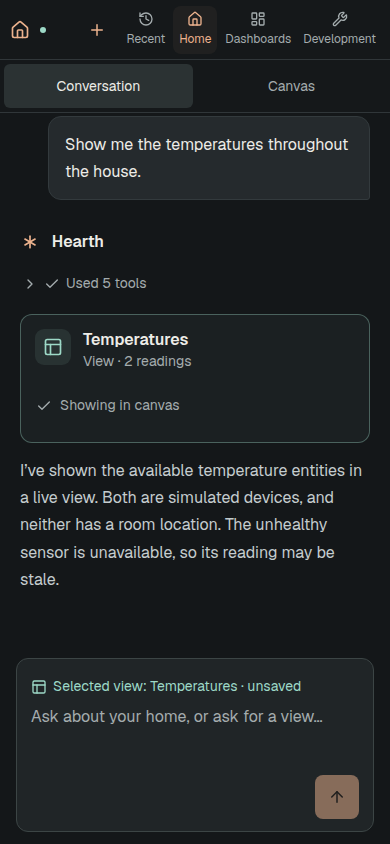
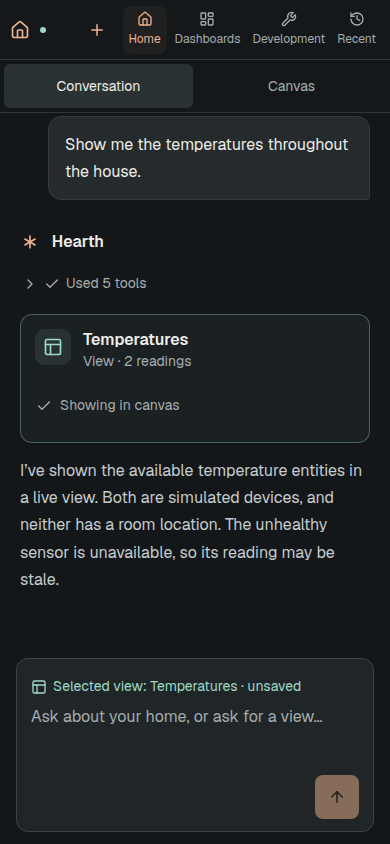
fix(web): keep Recent after main navigation at every width

Changed region(s): [[0.4615, 0.0, 0.9231, 0.0616], [0.3077, 0.0, 0.4308, 0.0616]]

diff --git a/web/src/App.tsx b/web/src/App.tsx
@@ -162,12 +162,12 @@ function HouseholdShell() {
     <aside className="hearth-sidebar" aria-label="Hearth navigation">
       <div className="hearth-brand"><span><HouseIcon aria-hidden="true" /></span> hearth<small>A little closer to home.</small></div>
       <button className="sidebar-new" aria-label="New conversation" disabled={turnActive} onClick={() => workspace.startFresh(() => { startNew(); workspace.navigateRetainingDraft("/"); })}><PlusIcon aria-hidden="true" /><span>New conversation</span></button>
-      <button ref={historyButton} className="history-toggle" aria-label="Conversation history" aria-expanded={historyOpen} aria-controls="conversation-history" onClick={() => setHistoryOpen(open => !open)}><HistoryIcon aria-hidden="true" /><span>Recent</span></button>
       <nav className="hearth-main-nav" aria-label="Main navigation">
         <Link to="/" aria-label="Home" className={home ? "active" : undefined} aria-current={home ? "page" : undefined}><HouseIcon aria-hidden="true" /><span>Home</span></Link>
         <NavLink to="/dashboards" aria-label="Dashboards"><LayoutDashboardIcon aria-hidden="true" /><span>Dashboards</span></NavLink>
         <NavLink to="/devices" aria-label="Development"><WrenchIcon aria-hidden="true" /><span>Development</span></NavLink>
       </nav>
+      <button ref={historyButton} className="history-toggle" aria-label="Conversation history" aria-expanded={historyOpen} aria-controls="conversation-history" onClick={() => setHistoryOpen(open => !open)}><HistoryIcon aria-hidden="true" /><span>Recent</span></button>
       <ConversationHistory id="conversation-history" open={historyOpen} onNavigate={() => setHistoryOpen(false)} />
       <ServerStatus />
     </aside>

diff --git a/web/src/index.css b/web/src/index.css
@@ -170,7 +170,7 @@
 .view-metric-value { letter-spacing:-.03em; font-variant-numeric:tabular-nums; }
 .view-editor input,.view-editor textarea,.view-editor select,.view-editor button,.view-editor summary { min-height:44px; }
 .view-editor summary { align-content:center; }
-/* Narrow layouts move recent conversations into a drawer opened from the top bar. */
+/* Narrow layouts replace the recent list with a drawer toggle after main navigation. */
 @media(max-width:980px) {
   .history-toggle { display:flex; flex-direction:column; align-items:center; justify-content:center; gap:6px; min-height:44px; padding:12px 4px; border-radius:8px; color:var(--quiet); font-size:12px; }
   .history-toggle:hover,.history-toggle[aria-expanded=true] { background:#ffffff0d; color:var(--ink); }

diff --git a/web/src/App.test.tsx b/web/src/App.test.tsx
@@ -17,6 +17,7 @@ it("keeps connection setup in Development, not the household workspace", async (
   }));
   render(<App />);
   expect(await screen.findByRole("heading", { name: "Home workspace" })).toBeTruthy();
+  expect(screen.getByRole("navigation", { name: "Main navigation" }).nextElementSibling).toBe(screen.getByRole("button", { name: "Conversation history" }));
   expect(screen.queryByRole("button", { name: "Connection settings" })).toBeNull();
   expect(await screen.findByText("Ready", { exact: true })).toBeTruthy();
   expect(within(screen.getByRole("complementary", { name: "Hearth navigation" })).getByRole("status").textContent).toBe("Hearth server Ready");

diff --git a/docs/design/home-layout/README.md b/docs/design/home-layout/README.md
@@ -3,8 +3,9 @@
 These captures were refreshed on 2026-11-04 (local time) in headless Chromium,
 against the worktree-local Core and scripted simulator. They show implementation
 `aebfcac`, including the removed top bar and composer notice, sidebar readiness,
-compact view cards and collapsed tool activity. Subsequent test and comment edits
-do not change the rendered interface.
+compact view cards and collapsed tool activity. The tablet and phone captures
+were refreshed again after moving the Recent toggle below main navigation;
+desktop captures and the desktop recording remain applicable.
 
 The temperature view came from a retained conversation. Refreshing the evidence
 made no model requests, saved no dashboards and sent no device Commands. Its
@@ -46,6 +47,11 @@ reconstructed or redacted.
   `(pointer: coarse)` and gives both summaries and tool rows 44px targets.
 - A component test streams new calls and results into an expanded disclosure;
   it stays open while its pending count updates and retains individual results.
+- Recent remains after Home, Dashboards and Development when the sidebar
+  collapses. At 820px, Recent previously started at y=124 and Home at y=206;
+  after the fix Home starts at y=124 and Recent at y=346. At 390px, the Recent
+  button follows the navigation horizontally. A DOM-order regression assertion
+  failed before moving the toggle and passes afterward.
 
 Physical touch devices and Safari were not tested. Simulator readings are not
 evidence of physical household behavior. The installed browser CLI is 0.41.1;
@@ -56,23 +62,26 @@ not a claim that its mapped device-control recipes passed.
 
 Raw final verification evidence is retained at
 `/tmp/opencode/hearth-home-final/` (HAR, runtime inventory and source provenance).
-The final validation log is `/tmp/opencode/hearth-validate-final.log`.
+The initial final validation log is `/tmp/opencode/hearth-validate-final.log`;
+validation after the Recent-order fix is `/tmp/opencode/hearth-recent-validate.log`.
 
 ## Delivery checkpoint
 
-- Playbook: mstack Feature → Finish delivery; PR #286, not approved for merge.
+- Playbook: mstack Feature → Bug fix (Recent order) → Finish delivery;
+  PR #286, not approved for merge.
 - Approved scope: adaptive Home workspace, sidebar history, compact view cards,
   shared canvas actions, immediate starters. Follow-up approvals remove redundant
   copy, the composer notice and top bar, move readiness to the sidebar, and
   collapse each reply's tools into one disclosure with compact expanded rows.
+  The user also approved keeping Recent after main navigation at every width.
 - Worktree: `/home/michael/code/worktrees/hearth/feat-web-home-layout`.
   Branch: `feat/web-home-layout`; reviewed implementation head: `aebfcac`.
 - Implemented: all approved behaviors; visual evidence refreshed and inspected.
   Final `mise run validate` passed: 273 web tests, frontend build, lint, vet and
   all Go test packages (including cached results). No generated or module changes.
-- Current step: publish the refreshed evidence and final regression test, then
-  verify CI against that exact head. Both backend and web CI passed on `aebfcac`;
-  the next evidence/test commit needs its own checks.
+- Current step: publish the Recent-order fix and refreshed narrow captures,
+  then verify CI against that exact head. Both backend and web CI passed on
+  `aebfcac`; that result does not establish the latest head's checks.
 - Review limitation: the initial independent Opus review completed; the attempted
   follow-up review could not run because its provider reached its usage limit.
   The implementation owner completed the follow-up review directly, correcting
